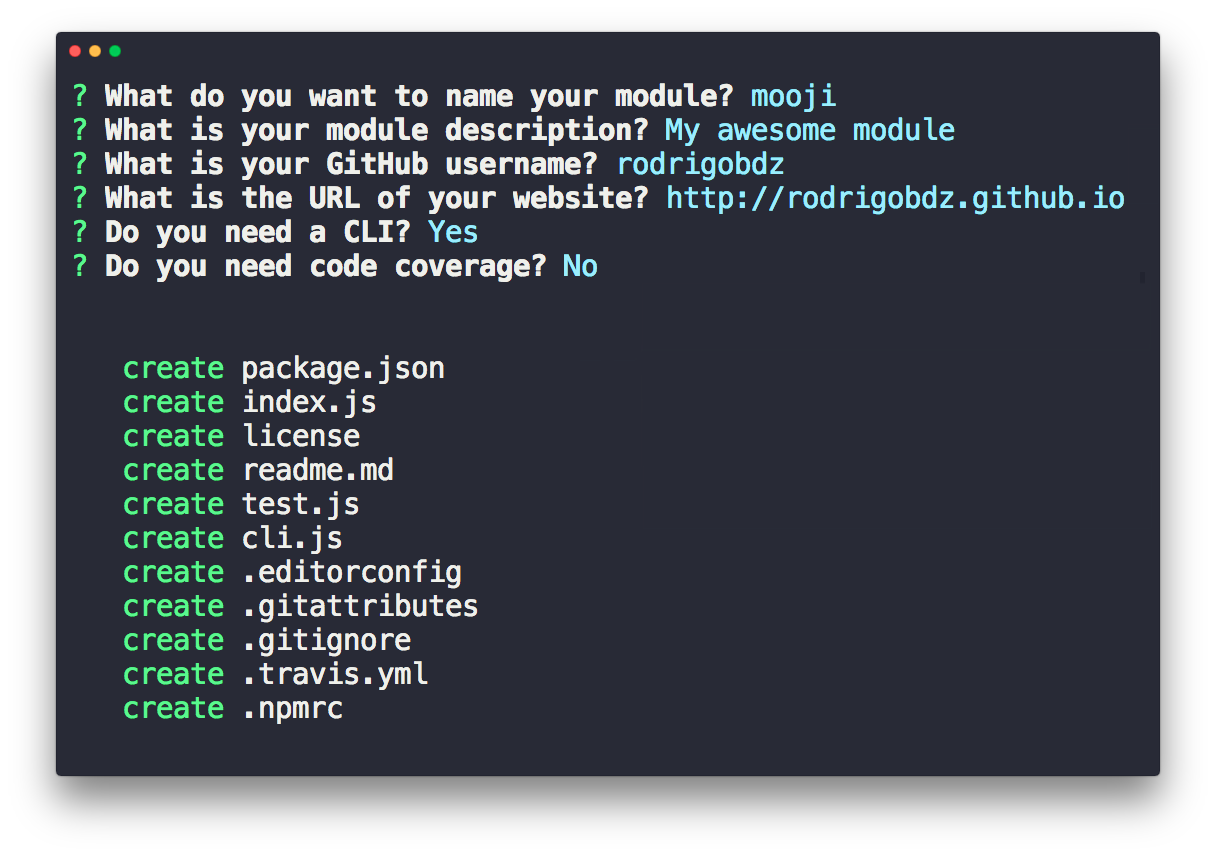
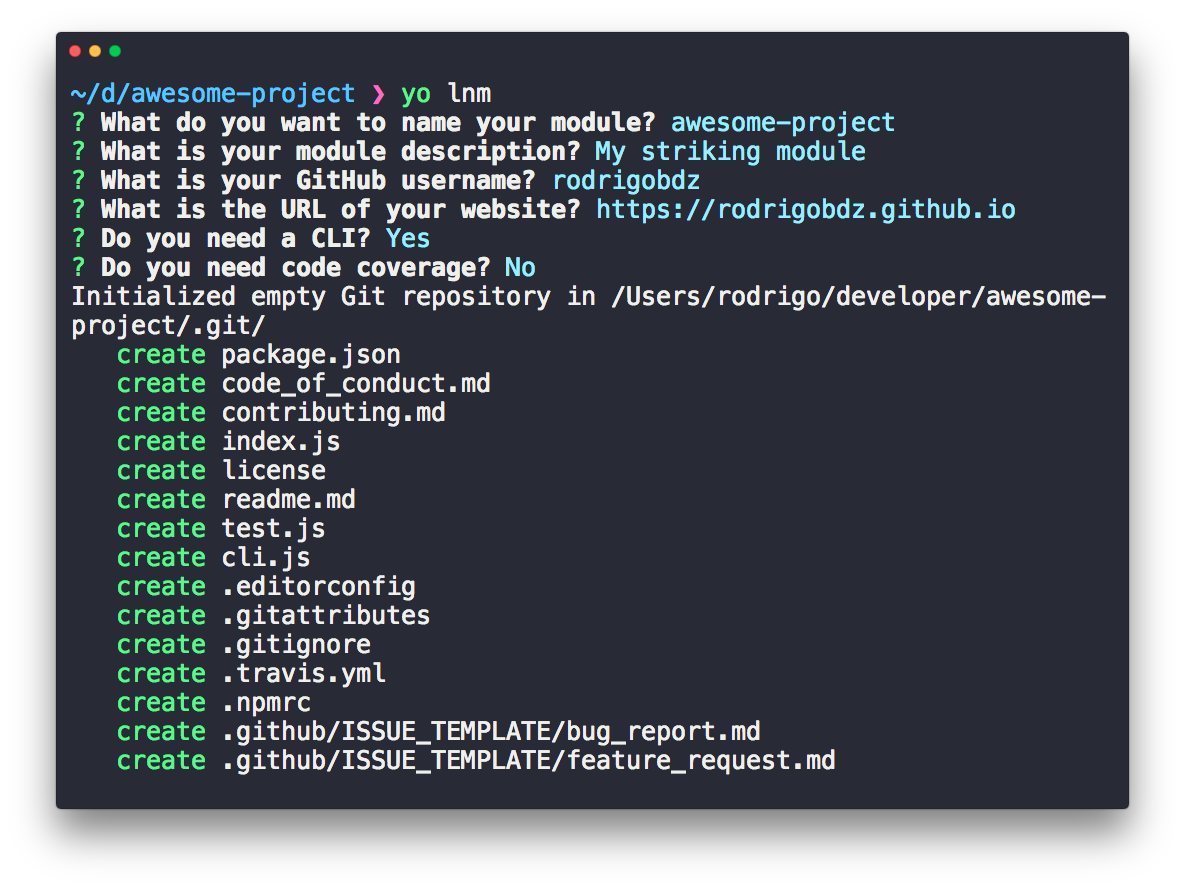
Readme: Update description and screenshot

Changed region(s): [[0.0312, 0.0911, 0.9679, 0.9112], [0.5308, 0.3037, 0.9367, 0.3645], [0.0312, 0.0304, 0.1249, 0.0607]]

diff --git a/app/index.js b/app/index.js
@@ -113,7 +113,8 @@ module.exports = class extends Generator {
 			mv('gitignore', '.gitignore');
 			mv('travis.yml', '.travis.yml');
 			mv('npmrc', '.npmrc');
-			mv('github/**', '.github');
+			mv('bug_report.md', '.github/ISSUE_TEMPLATE/bug_report.md');
+			mv('feature_request.md', '.github/ISSUE_TEMPLATE/feature_request.md');
 			mv('_package.json', 'package.json');
 		});
 	}

diff --git a/readme.md b/readme.md
@@ -1,10 +1,13 @@
 # generator-lnm [![Build Status](https://travis-ci.com/rodrigobdz/generator-lnm.svg?branch=master)](https://travis-ci.com/rodrigobdz/generator-lnm)
 
-> Scaffold out a node module with linted files and [update notifier](https://github.com/yeoman/update-notifier)
+> Awesome Node module generator
 
-If you are wondering how this is different to generator-nm, read the [credits](#credits) section.
+### Features
 
-Optionally with a [CLI](http://en.wikipedia.org/wiki/Command-line_interface).
+Improvements **generator-lnm** over generator-nm:
+
+* Generated modules comply with [recommended community standards](https://opensource.guide).
+* Optionally with a [CLI](http://en.wikipedia.org/wiki/Command-line_interface) which includes [update notifier](https://github.com/yeoman/update-notifier).
 
 This is what I use for [my own modules](https://www.npmjs.com/~rodrigobdz).
 
@@ -53,6 +56,7 @@ Use [chalk](https://github.com/sindresorhus/chalk) if you want colors in your CL
 [sindresorhus/generator-nm](https://github.com/sindresorhus/generator-nm) - generator-lnm is forked from generator-nm. _lnm_ stands for _**l**inted **n**ode **m**odule_. Reasons for forking:
 
 * Linted markdown files
+* License includes line breaks to improve readability.
 * Link to license file in license section
 
 See [changelog](changelog.md#100---2019-03-01), [PR #78](https://github.com/sindresorhus/generator-nm/pull/78) and [PR #79](https://github.com/sindresorhus/generator-nm/pull/79) for reference.

diff --git a/changelog.md b/changelog.md
@@ -16,6 +16,12 @@ and this project adheres to [Semantic Versioning](https://semver.org/spec/v2.0.0
 
 ## [Unreleased]
 
+## [1.2.1] - 2019-04-22
+
+### Changed
+
+- Update npm description and screenshot.
+
 ## [1.2.0] - 2019-04-22
 
 ### Added
@@ -48,7 +54,8 @@ This is visible in the repo's community profile `https://github.com/<username>/<
 
 - Rename npm package from generator-nm to generator-lnm.
 
-[unreleased]: https://github.com/rodrigobdz/generator-lnm/compare/v1.2.0...HEAD
+[unreleased]: https://github.com/rodrigobdz/generator-lnm/compare/v1.2.1...HEAD
+[1.2.1]: https://github.com/rodrigobdz/generator-lnm/compare/v1.2.0...v1.2.1
 [1.2.0]: https://github.com/rodrigobdz/generator-lnm/compare/v1.1.0...v1.2.0
 [1.1.0]: https://github.com/rodrigobdz/generator-lnm/compare/v1.0.0...v1.1.0
 [1.0.0]: https://github.com/rodrigobdz/generator-lnm/compare/8711e3ae187acf7f73744f5763894188251515bf...v1.0.0
